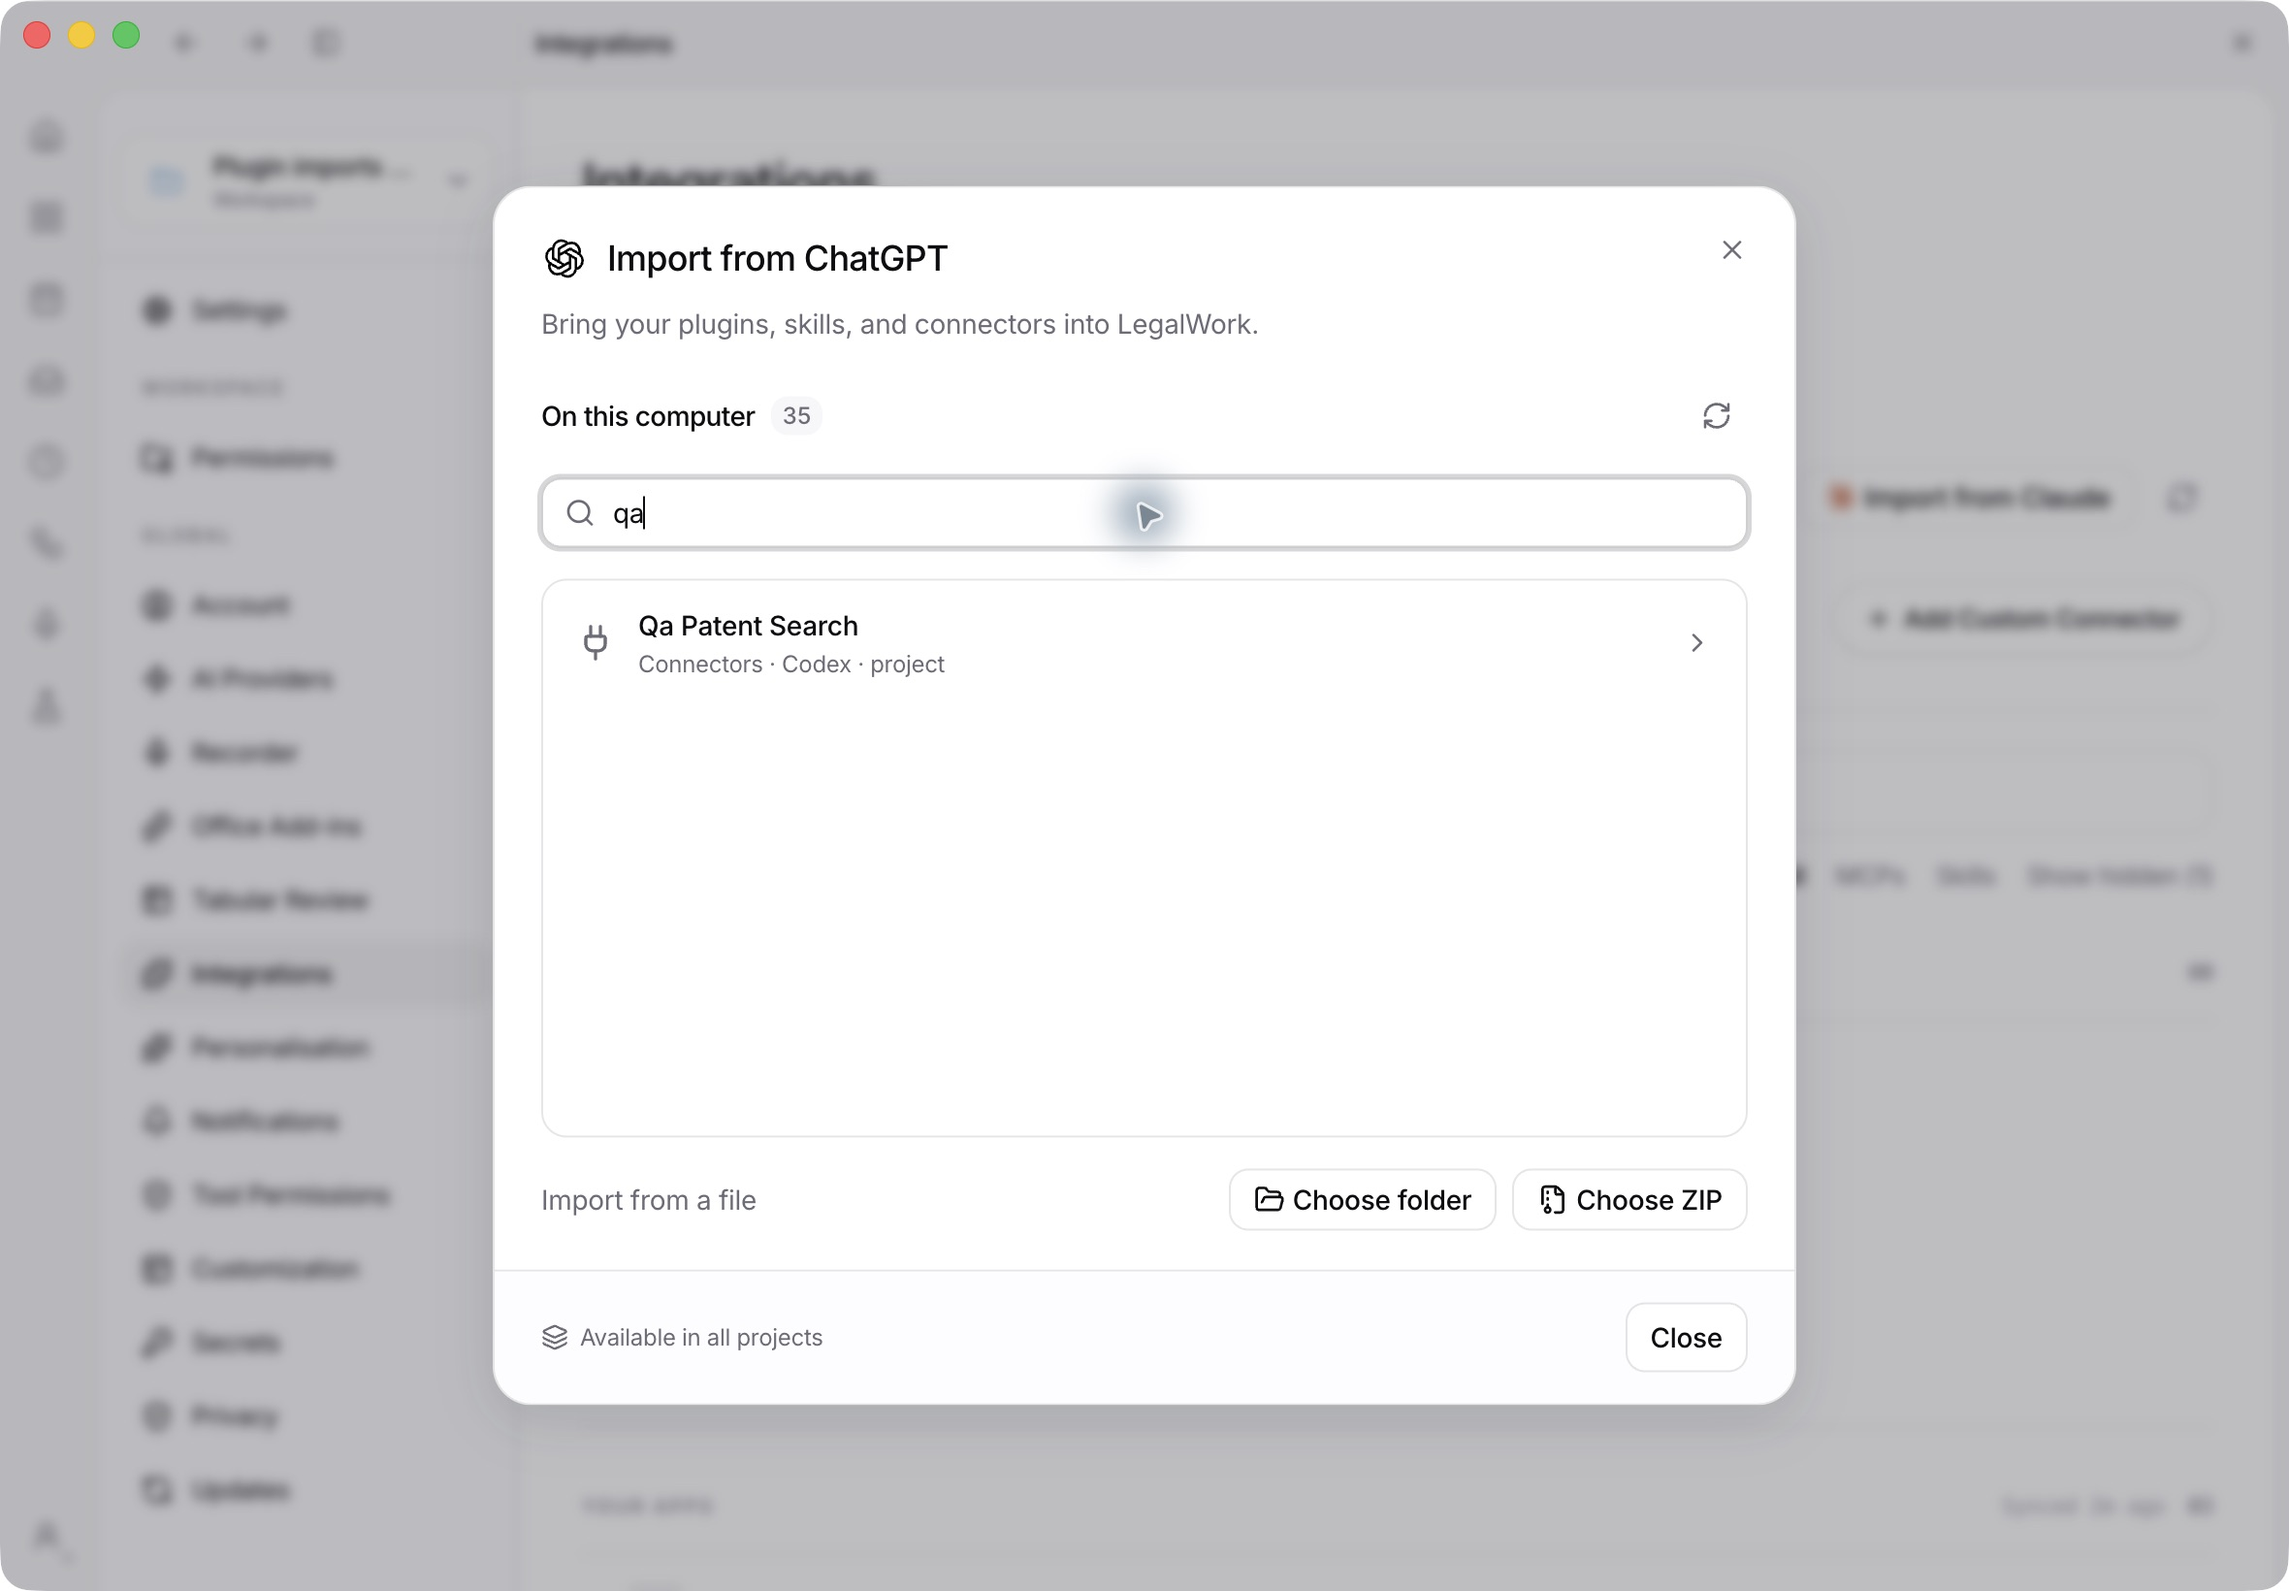
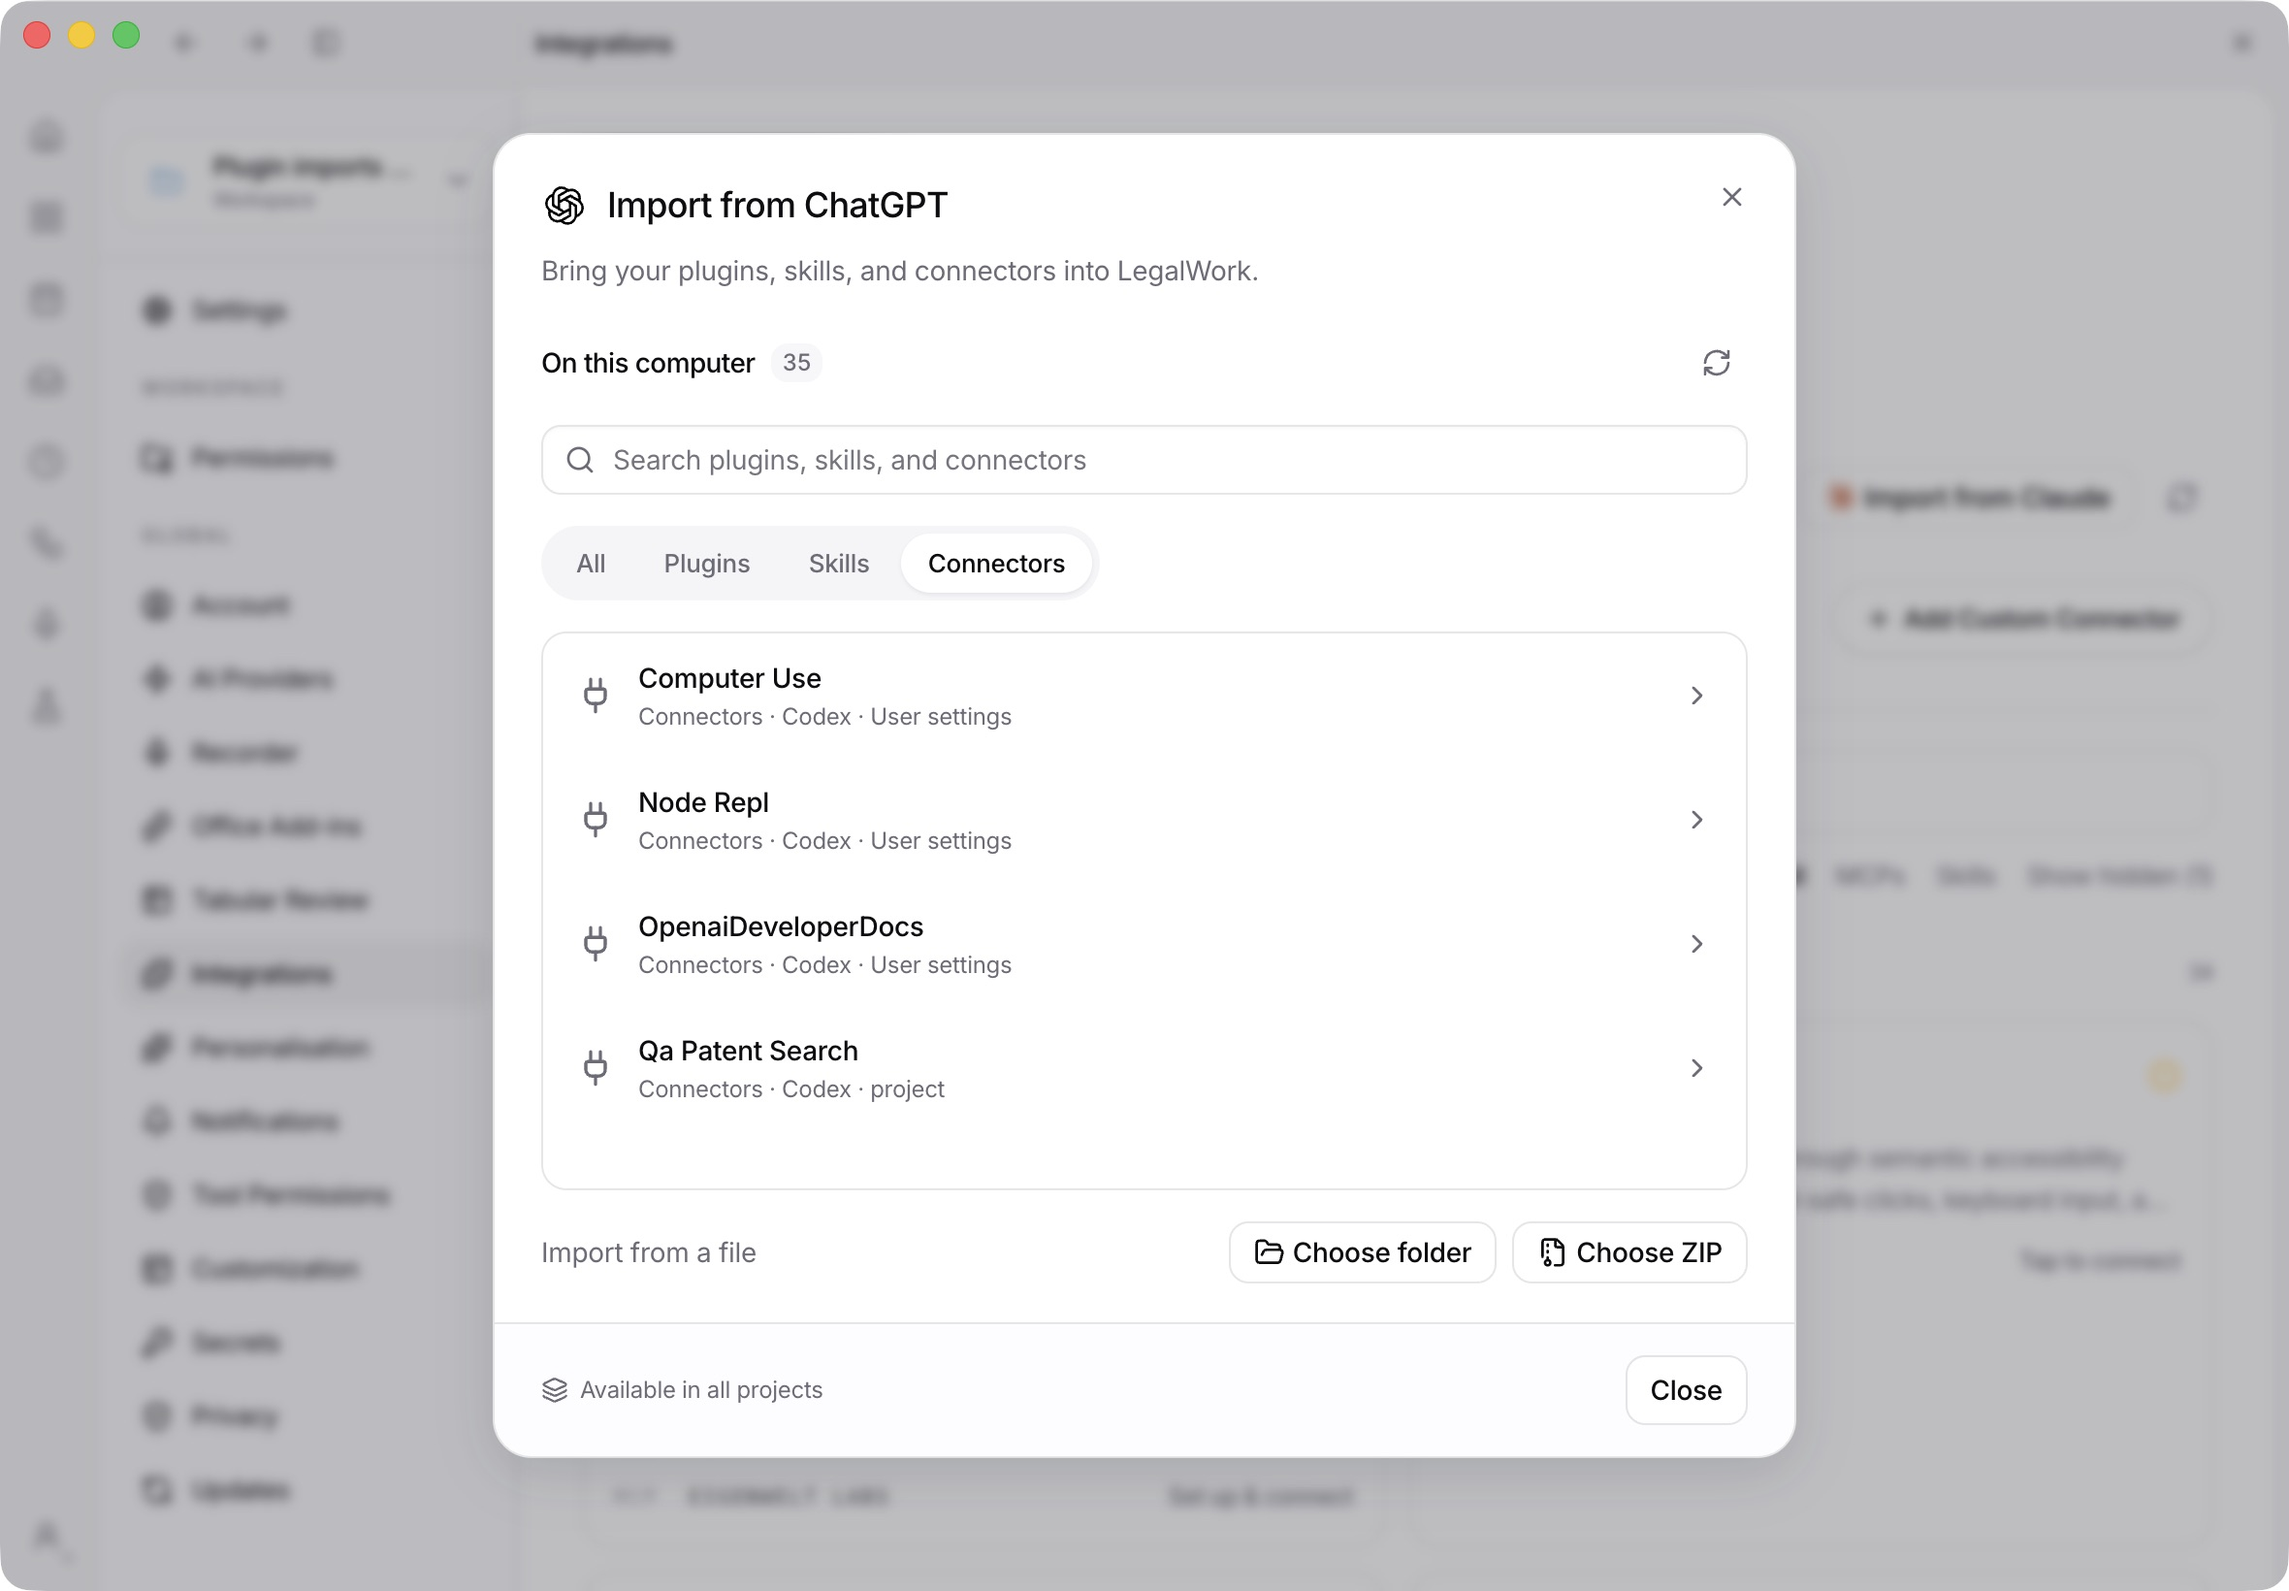
feat: filter discovered imports by type below search

diff --git a/apps/app/src/react-app/domains/settings/pages/plugin-import-dialog.tsx b/apps/app/src/react-app/domains/settings/pages/plugin-import-dialog.tsx
@@ -11,6 +11,7 @@ import { isDesktopRuntime } from "@/app/utils";
 import { t } from "@/i18n";
 import { ChatGptLogo } from "../../connections/provider-auth/chatgpt-plan-card";
 import claudeLogo from "@/assets/claude-logo.svg";
+import { HubTabs } from "../segmented-tabs";
 import { groupPluginImportCandidates, pluginImportCandidateKey, pluginImportName } from "./plugin-import-presentation";
 import { packageParts } from "./skill-packages";
 
@@ -20,6 +21,7 @@ export type PluginImportStore = {
   installPluginImport(request: PluginImportRequest): Promise<PluginImportPreview>;
 };
 const componentTypes: PluginImportPreview["components"][number]["type"][] = ["skill", "mcp", "agent", "command"];
+type ImportFilter = "all" | "plugin" | "skill" | "connector";
 const componentIcons = { skill: Blocks, mcp: Plug, agent: Bot, command: Terminal };
 const componentTitle = (type: PluginImportPreview["components"][number]["type"]) =>
   t(type === "skill" ? "skills.title" : type === "mcp" ? "extensions.connectors_label" : type === "agent" ? "composer.agents_label" : "dashboard.commands");
@@ -30,6 +32,7 @@ export function PluginImportDialog(props: { provider: PluginImportProvider; stor
   const [discoveryFailed, setDiscoveryFailed] = useState(false);
   const [discoveryRevision, setDiscoveryRevision] = useState(0);
   const [query, setQuery] = useState("");
+  const [filter, setFilter] = useState<ImportFilter>("all");
   const [step, setStep] = useState<"choose" | "review">("choose");
   const [source, setSource] = useState<PluginImportSource | null>(null);
   const [sourceLabel, setSourceLabel] = useState("");
@@ -45,7 +48,10 @@ export function PluginImportDialog(props: { provider: PluginImportProvider; stor
   const selected = previews.find(item => item.root === selectedRoot);
   const groups = groupPluginImportCandidates(candidates);
   const search = query.trim().toLocaleLowerCase();
-  const filtered = groups.filter(({ candidate }) => [pluginImportName(candidate), candidate.name, candidate.description].some(value => value?.toLocaleLowerCase().includes(search)));
+  const narrowed = search.length > 0 || filter !== "all";
+  const filtered = groups.filter(({ candidate }) =>
+    (filter === "all" || (candidate.kind ?? "plugin") === filter) &&
+    [pluginImportName(candidate), candidate.name, candidate.description].some(value => value?.toLocaleLowerCase().includes(search)));
 
   useEffect(() => {
     mounted.current = true;
@@ -152,6 +158,17 @@ export function PluginImportDialog(props: { provider: PluginImportProvider; stor
             <Search className="pointer-events-none absolute start-3 top-1/2 size-4 -translate-y-1/2 text-muted-foreground" />
             <Input autoFocus className="ps-9" aria-label={t("extensions.import_search")} placeholder={t("extensions.import_search")} value={query} onChange={event => setQuery(event.target.value)} />
           </div>
+          <HubTabs<ImportFilter>
+            label={t("extensions.import_filter")}
+            items={[
+              { id: "all", label: t("extensions.filter_all") },
+              { id: "plugin", label: t("extensions.filter_plugins") },
+              { id: "skill", label: t("skills.title") },
+              { id: "connector", label: t("extensions.connectors_label") },
+            ]}
+            value={filter}
+            onChange={setFilter}
+          />
           <div className="h-72 min-h-28 overflow-y-auto rounded-xl border border-border">
             {discovering ? <div className="flex h-full items-center justify-center gap-2 text-muted-foreground" role="status"><Loader2 className="size-4 animate-spin motion-reduce:animate-none" />{t("extensions.import_discovering")}</div>
               : discoveryFailed ? <div className="flex h-full flex-col items-center justify-center gap-3 px-6 text-center"><TriangleAlert className="size-6 text-muted-foreground" /><p className="text-muted-foreground">{t("extensions.import_discovery_failed")}</p><Button variant="outline" size="sm" onClick={() => setDiscoveryRevision(value => value + 1)}>{t("extensions.import_retry")}</Button></div>
@@ -164,7 +181,7 @@ export function PluginImportDialog(props: { provider: PluginImportProvider; stor
                   {item.version ? <span className="max-w-24 truncate text-xs text-muted-foreground">{item.version}</span> : null}
                   <ChevronRight className="size-4 shrink-0 text-muted-foreground" />
                 </Button>;
-              })}</div> : <div className="flex h-full flex-col items-center justify-center gap-2 px-6 text-center"><Package className="size-6 text-muted-foreground" /><p className="font-medium">{t(search ? "extensions.import_no_matches" : "extensions.import_none_found")}</p><p className="text-sm text-muted-foreground">{t(search ? "extensions.import_search_hint" : "extensions.import_file_hint")}</p></div>}
+              })}</div> : <div className="flex h-full flex-col items-center justify-center gap-2 px-6 text-center"><Package className="size-6 text-muted-foreground" /><p className="font-medium">{t(narrowed ? "extensions.import_no_matches" : "extensions.import_none_found")}</p><p className="text-sm text-muted-foreground">{t(narrowed ? "extensions.import_search_hint" : "extensions.import_file_hint")}</p></div>}
           </div>
           <div className="flex flex-wrap items-center justify-between gap-3">
             <span className="text-sm text-muted-foreground">{t("extensions.import_file_source")}</span>

diff --git a/apps/app/src/i18n/locales/de.ts b/apps/app/src/i18n/locales/de.ts
@@ -2145,11 +2145,12 @@ const de = {
   "extensions.import_install": "In LegalWork importieren",
   "extensions.import_installing": "Wird importiert…",
   "extensions.import_search": "Plugins, Skills und Konnektoren suchen",
+  "extensions.import_filter": "Importe filtern",
   "extensions.import_rescan": "Erneut suchen",
   "extensions.import_discovery_failed": "Ihre Plugin-Ordner konnten nicht durchsucht werden. Versuchen Sie es erneut oder wählen Sie einen Ordner oder eine ZIP-Datei.",
   "extensions.import_retry": "Erneut versuchen",
   "extensions.import_no_matches": "Keine passenden Importe",
-  "extensions.import_search_hint": "Versuchen Sie einen anderen Namen oder leeren Sie die Suche.",
+  "extensions.import_search_hint": "Versuchen Sie einen anderen Namen oder Filter.",
   "extensions.import_file_hint": "Sie können unten einen Plugin-Ordner oder eine ZIP-Datei importieren.",
   "extensions.import_file_source": "Aus einer Datei importieren",
   "extensions.import_plugin": "Plugin-Paket",

diff --git a/apps/app/src/i18n/locales/en.ts b/apps/app/src/i18n/locales/en.ts
@@ -2072,11 +2072,12 @@ export default {
   "extensions.import_install": "Import into LegalWork",
   "extensions.import_installing": "Importing…",
   "extensions.import_search": "Search plugins, skills, and connectors",
+  "extensions.import_filter": "Filter imports",
   "extensions.import_rescan": "Scan again",
   "extensions.import_discovery_failed": "Couldn't search your plugin folders. Try again, or choose a folder or ZIP.",
   "extensions.import_retry": "Try again",
   "extensions.import_no_matches": "No matching imports",
-  "extensions.import_search_hint": "Try another name or clear your search.",
+  "extensions.import_search_hint": "Try another name or filter.",
   "extensions.import_file_hint": "You can still import a plugin folder or ZIP below.",
   "extensions.import_file_source": "Import from a file",
   "extensions.import_plugin": "Plugin",

diff --git a/docs/plugin-imports.md b/docs/plugin-imports.md
@@ -1,6 +1,6 @@
 # Import ChatGPT and Claude plugins
 
-On **Extensions**, choose **Import from ChatGPT** or **Import from Claude**. The dialog first shows a searchable list of plugins, skills and standalone MCP connectors found on this computer, using display names and descriptions from package metadata. Duplicate versions appear as one row, with other copies available in the source details. You can also choose a complete folder or ZIP with the native file picker. Selecting a source opens a separate review of its skills, connectors, agents, commands and compatibility notices before importing. A folder or archive containing multiple plugin manifests lets you choose the package to import. Import each package individually.
+On **Extensions**, choose **Import from ChatGPT** or **Import from Claude**. The dialog first shows a searchable list of plugins, skills and standalone MCP connectors found on this computer, using display names and descriptions from package metadata. **All / Plugins / Skills / Connectors** filters sit below the search field and work together with search; returning from a preview keeps both selections. Duplicate versions appear as one row, with other copies available in the source details. You can also choose a complete folder or ZIP with the native file picker. Selecting a source opens a separate review of its skills, connectors, agents, commands and compatibility notices before importing. A folder or archive containing multiple plugin manifests lets you choose the package to import. Import each package individually.
 
 Imports are automatically available in all projects, matching the desktop Skills and Connectors libraries. Choose a folder using the native file picker, choose a ZIP, or select an auto-discovered installation. Preview opens automatically after selection. Discovery, installation and removal require owner access and respect custom-plugin, skill and connector policies. The underlying API retains project-scoped installation support for existing integrations.
 
@@ -60,7 +60,7 @@ Installation requires the digest from the reviewed preview. Source, scope or tar
 
 ![Standalone connector review in Electron](images/connector-import-review.png)
 
-Native Electron verification found existing installations for both providers, filtered discovery by name, checked empty search and Back behavior, imported a Claude folder and a ChatGPT ZIP through the native pickers, and verified the resulting package cards and readable skill names. The ZIP fixture contained skills, a connector, an agent, a command and supporting files; its missing-credentials connector remained disabled with an explicit compatibility note. Standalone Claude and Codex MCP connectors were also discovered from project configuration, reviewed and imported into the paused connector library. A Node runtime smoke check verifies TOML discovery and header translation independently of the Bun test runner. No real MCP service was connected.
+Native Electron verification found existing installations for both providers, filtered discovery by name and type, checked combined search/filter empty results and Back behavior, imported a Claude folder and a ChatGPT ZIP through the native pickers, and verified the resulting package cards and readable skill names. The ZIP fixture contained skills, a connector, an agent, a command and supporting files; its missing-credentials connector remained disabled with an explicit compatibility note. Standalone Claude and Codex MCP connectors were also discovered from project configuration, reviewed and imported into the paused connector library. A Node runtime smoke check verifies TOML discovery and header translation independently of the Bun test runner. No real MCP service was connected.
 
 `pnpm --filter legalwork-server exec bun test src/connector-imports.test.ts src/plugin-imports.test.ts src/cloud-plugins.test.ts src/claude-plugin-bundle.e2e.test.ts src/runtime-opencode-config-store.test.ts src/validators.test.ts` exercises both providers, wrapped ZIP/folder imports, source assets and executable files, names/metadata, MCP precedence and exact arguments/environment/header values, global/project scope, cross-project removal, updates, rollback, source digests, ownership and malformed/oversized inputs.
 
